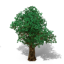
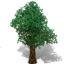
add draggable tree

diff --git a/lib/main.dart b/lib/main.dart
@@ -2,6 +2,7 @@ import 'dart:async';
 
 import 'package:firebase_core/firebase_core.dart';
 import 'package:flame/components.dart';
+import 'package:flame/events.dart';
 import 'package:flame/game.dart';
 import 'package:flame/sprite.dart';
 import 'package:flutter/material.dart';
@@ -71,6 +72,7 @@ class MainGameState extends State<MainGamePage> {
     IsometricTileMapExample isoExample = IsometricTileMapExample(numberOfRows);
 
     return Scaffold(
+      appBar: AppBar(),
       body: Stack(
         children: [
           GameWidget(
@@ -131,8 +133,8 @@ class IsometricTileMapExample extends FlameGame {
       srcSize: Vector2(64, 64),
     );
 
-    final treeSprite = await images.load('tree_64.png');
-    final tree = Sprite(treeSprite);
+    final treeImage = await images.load('tree_64.png');
+    final tree = Sprite(treeImage);
 
     ///
     /// [0, 0, 0]
@@ -149,20 +151,87 @@ class IsometricTileMapExample extends FlameGame {
       ),
     ];
 
-    add(
-      IsometricTileMapComponent(
+    final middle = size / 2;
+
+    addAll([
+      base = IsometricTileMapComponent(
         tileset,
         matrix,
+        position: middle,
         anchor: Anchor.center,
-        position: size / 2,
       ),
-    );
-    add(
-      SpriteComponent(
-        sprite: tree,
-        anchor: Anchor.bottomCenter,
-        position: Vector2(size.x / 2, size.y / 2 - 10),
+      DraggableTree(
+        numberOfRows.isEven ? middle : Vector2(middle.x, middle.y - 16),
+        tree,
+        numberOfRows,
+        snapToGrid: (Vector2 position) {
+          print('position: $position');
+          final block = base.getBlock(position);
+          print('block: $block');
+          if ((block.x + 1).abs() <= numberOfRows && (block.y + 1).abs() <= numberOfRows) {
+            final vector = base.getBlockCenterPosition(block);
+            print('vector: $vector');
+            return Vector2(middle.x + vector.x, middle.y + vector.y - 16);
+          } else {
+            return numberOfRows.isEven ? middle : Vector2(middle.x, middle.y - 16);
+          }
+        },
       ),
-    );
+      // DraggableTree(
+      //   numberOfRows.isEven ? middle : Vector2(middle.x, middle.y - 16),
+      //   tree,
+      //   numberOfRows,
+      //   snapToGrid: (Vector2 position) {
+      //     print('position: $position');
+      //     final block = base.getBlock(position);
+      //     print('block: $block');
+      //     final vector = base.getBlockCenterPosition(block);
+      //     print('vector: $vector');
+      //     return vector;
+      //   },
+      //   snapToCenterTile: () {
+      //     return numberOfRows.isEven ? middle : Vector2(middle.x, middle.y - 16);
+      //   },
+      // ),
+    ]);
+  }
+}
+
+class DraggableTree extends SpriteComponent with DragCallbacks {
+  DraggableTree(
+    Vector2 position,
+    Sprite sprite,
+    this.numberOfRows, {
+    required this.snapToGrid,
+  }) : super(
+          sprite: sprite,
+          position: position,
+          anchor: Anchor.bottomCenter,
+        );
+
+  final int numberOfRows;
+  final Function(Vector2) snapToGrid;
+
+  @override
+  void onDragStart(DragStartEvent event) {
+    super.onDragStart(event);
+    priority = 10;
+  }
+
+  @override
+  void onDragUpdate(DragUpdateEvent event) {
+    super.onDragUpdate(event);
+    position += event.localDelta;
+  }
+
+  @override
+  void onDragEnd(DragEndEvent event) {
+    print('onDragEnd');
+    super.onDragEnd(event);
+    priority = 0;
+
+    final nearestTile = snapToGrid(position);
+
+    position = nearestTile;
   }
 }
